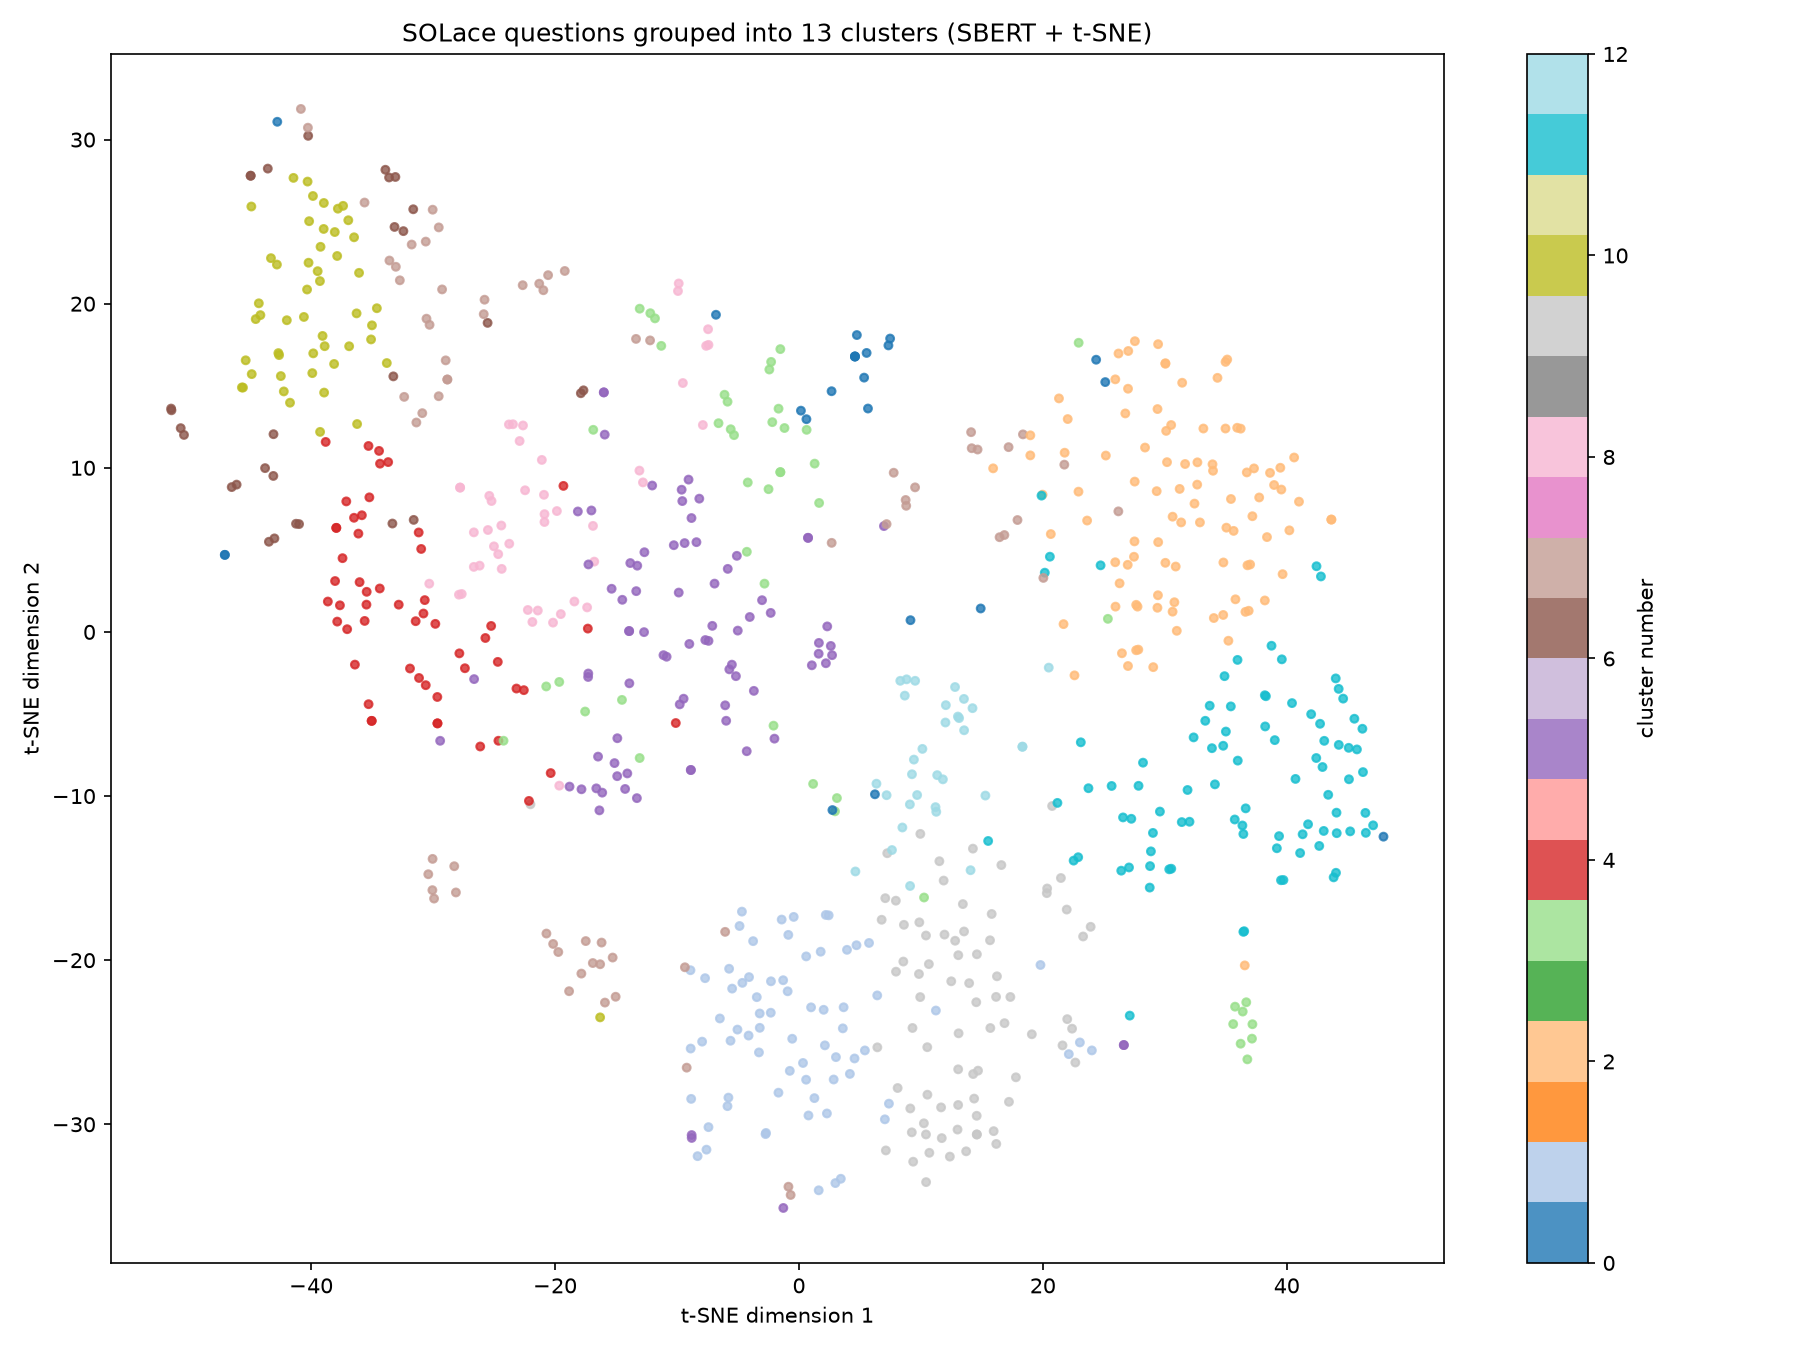
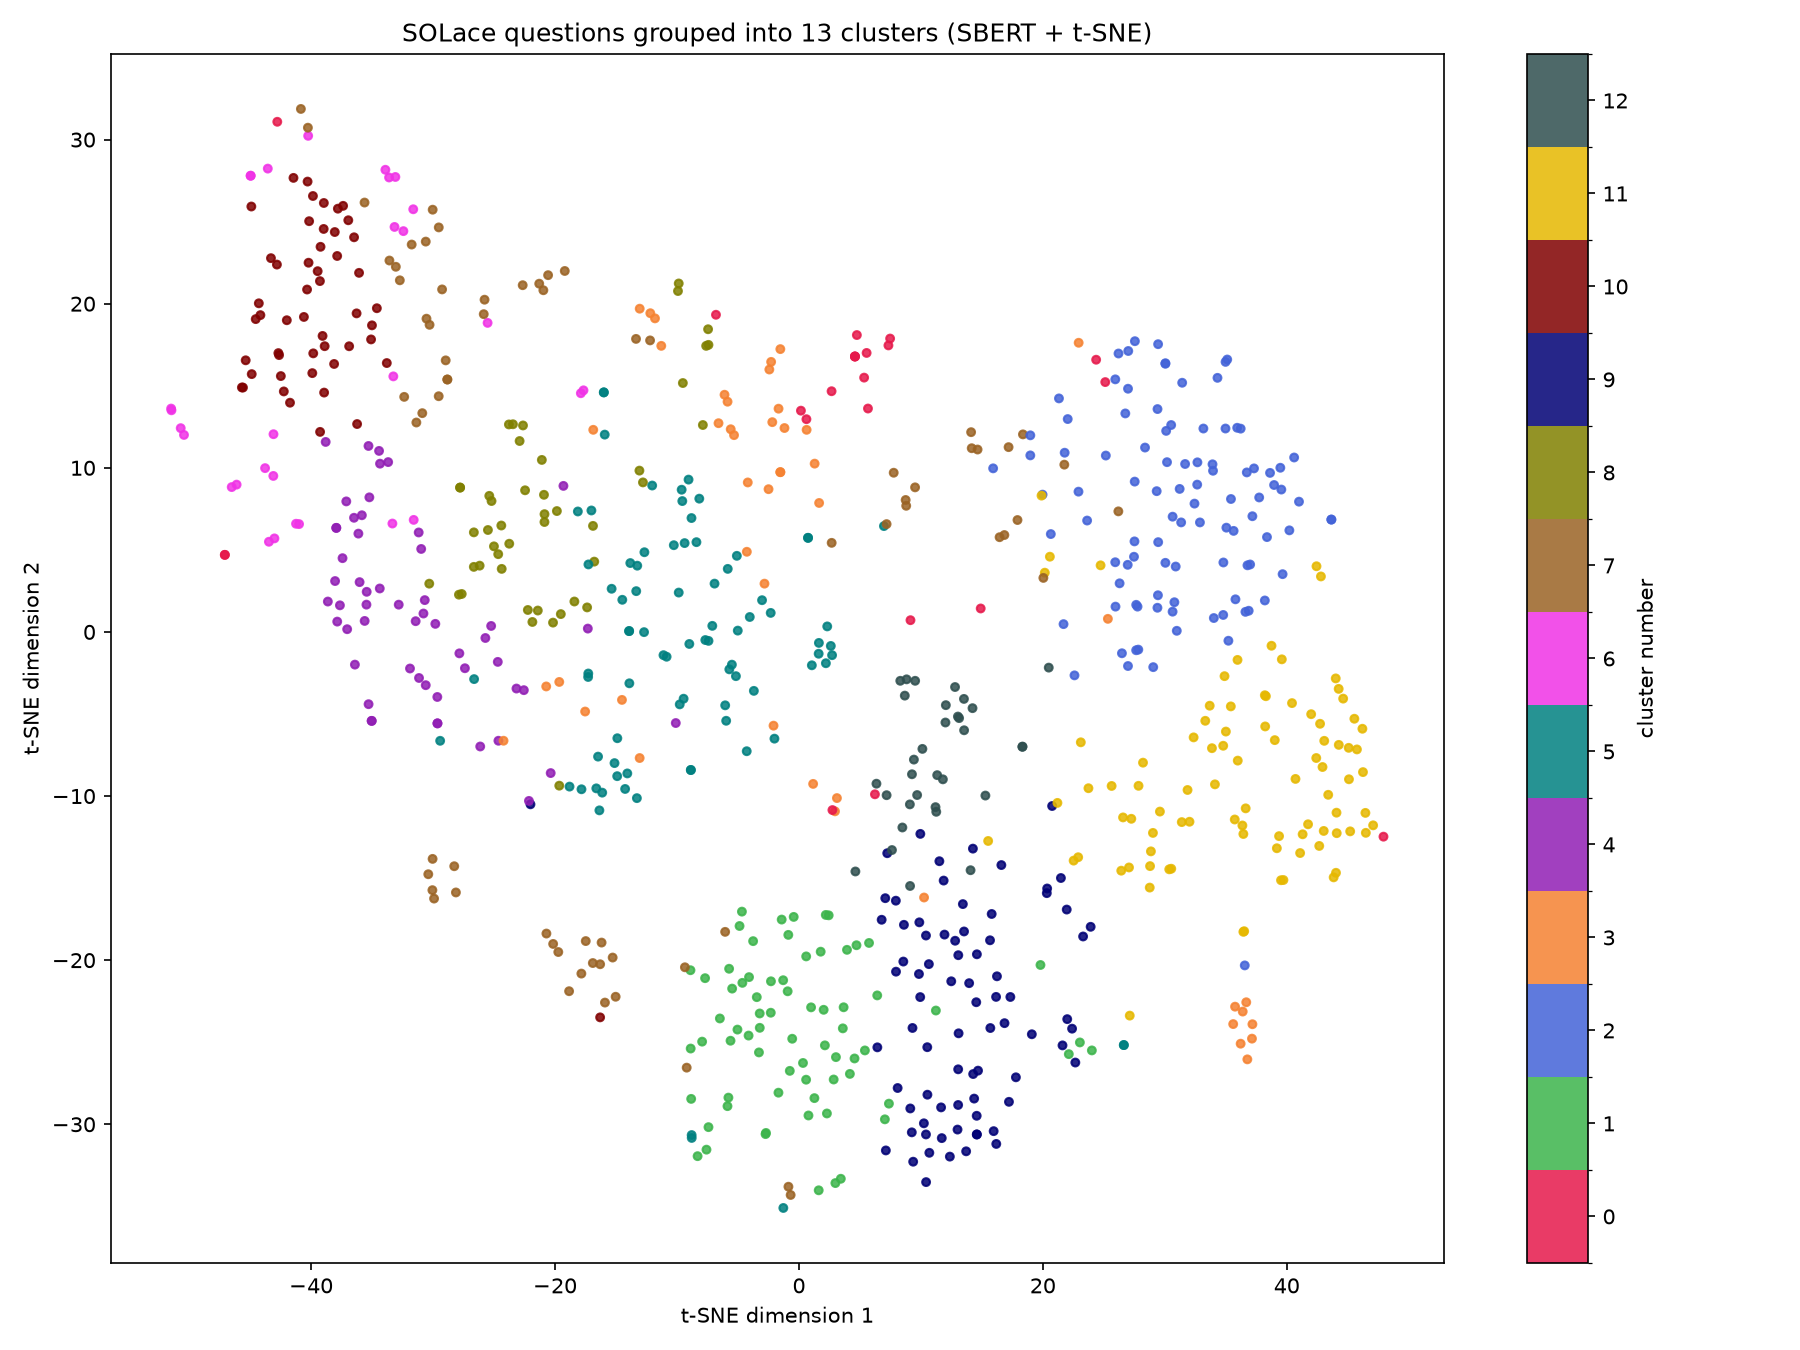
update colors for t-SNE

diff --git a/2_cluster_questions.py b/2_cluster_questions.py
@@ -25,6 +25,7 @@ Note: the FIRST run downloads the model (~90 MB), so you need internet that once
 import numpy as np
 import pandas as pd
 import matplotlib.pyplot as plt
+from matplotlib.colors import ListedColormap, BoundaryNorm
 from sentence_transformers import SentenceTransformer
 from sklearn.decomposition import PCA
 from sklearn.cluster import KMeans
@@ -98,13 +99,31 @@ def main():
     ).fit_transform(reduced)
     df["tsne_x"], df["tsne_y"] = coords[:, 0], coords[:, 1]
 
+    # A hand-picked set of distinct, white-background-friendly colors with no
+    # light/dark twins. We use exactly as many as there are clusters.
+    distinct_colors = [
+        "#e6194B", "#3cb44b", "#4363d8", "#f58231", "#911eb4",
+        "#008080", "#f032e6", "#9A6324", "#808000", "#000075",
+        "#800000", "#e6b800", "#2f4f4f", "#ff6f91", "#5d8aa8",
+        "#7f7f7f", "#17becf", "#bcbd22", "#393b79", "#637939",
+    ]
+    if k <= len(distinct_colors):
+        cmap = ListedColormap(distinct_colors[:k])   # exactly k colors, one per cluster
+    else:
+        cmap = plt.get_cmap("tab20").resampled(k)    # fallback if you ever exceed the list
+    # BoundaryNorm pins each integer cluster to one solid color band (no gradient).
+    norm = BoundaryNorm(range(k + 1), cmap.N)
+
     plt.figure(figsize=(12, 9))
     scatter = plt.scatter(coords[:, 0], coords[:, 1], c=df["cluster"],
-                          cmap="tab20", s=14, alpha=0.8)
+                          cmap=cmap, norm=norm, s=14, alpha=0.85)
     plt.title(f"SOLace questions grouped into {k} clusters (SBERT + t-SNE)")
     plt.xlabel("t-SNE dimension 1")
     plt.ylabel("t-SNE dimension 2")
-    plt.colorbar(scatter, label="cluster number")
+    # Center each tick on its color band so the numbers line up with the colors.
+    cbar = plt.colorbar(scatter, ticks=[i + 0.5 for i in range(k)])
+    cbar.set_ticklabels(range(k))
+    cbar.set_label("cluster number")
     plt.tight_layout()
     plt.savefig("clusters_plot.png", dpi=150)
     print("Saved clusters_plot.png")